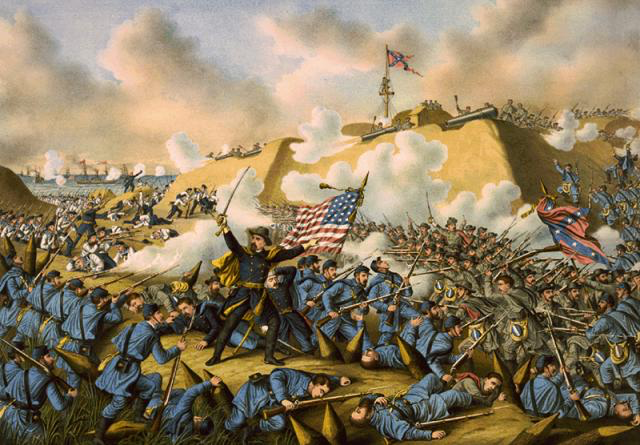
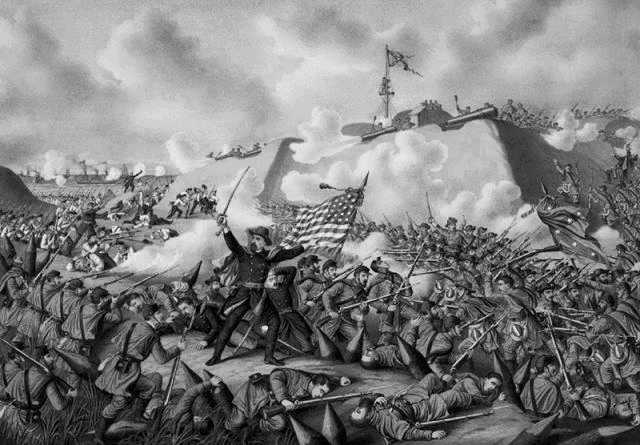
quiz-ten
Former-commit-id: 2ef84384b07a16bca82bc1794dcd85841807e04e [formerly 40565ee16052aa53a2586c54be676f3e3c36f88c]
Former-commit-id: 9e87158f8cc924dd9162e09194d3cd53d1011805

diff --git a/src/publications/quizzes/ten/index.html b/src/publications/quizzes/ten/index.html
@@ -373,7 +373,7 @@
                 },
                 {
                     "id": "place4", //figure out how to make black and white,
-                    "zoom": 3,
+                    "zoom": 2,
                     "baseLayer": {
                         "type": "tile",
                         "url": "http://{s}.tile.stamen.com/watercolor/{z}/{x}/{y}.jpg",
@@ -385,8 +385,12 @@
                         "opacity": 0.6,
                         "background": "linear-gradient(180deg, rgba(0,0,0,1.0), rgba(0,0,0,0.2))"
                     },
-
-
+                    "bounds":{
+                        "somalia": true,
+                        "afghanistan": true,
+                        "myanmar": true,
+                        "cambodia":true
+                    },
                     layers: [{
                             "id": "somalia",
                             "type": "geojson",
@@ -452,6 +456,7 @@
                             }
                         }
                     ],
+
                 },
                 {
                     "id": "place5",
@@ -540,7 +545,7 @@
                 },
                 {
                     "id": "place6",
-                    "zoom": 1.5, //3,
+                    "zoom": 1.3, //3,
                     "baseLayer": {
                         "type": "tile",
                         "url": "http://{s}.tile.stamen.com/watercolor/{z}/{x}/{y}.jpg",
@@ -640,7 +645,7 @@
                         {
                             "id": "missouri",
                             "type": "geojson",
-                            "data": L.states.MI,
+                            "data": L.states.MO,
                             "style": statePolygonStyle
                         },
                         {
@@ -734,7 +739,7 @@
                 },
                 {
                     "id": "place10", //change basemap
-                    "zoom": 3.5,
+                    "zoom": 3.0,
                     "baseLayer": {
                         "type": "tile",
                         "url": "http://{s}.tile.openstreetmap.org/{z}/{x}/{y}.png"
@@ -895,7 +900,7 @@
                     choices: [{
                         id: 'A',
                         text: 'Mali',
-                        photo: './img/Q2/Q2_A_Mali.png',
+                        photo: './img/Q2/Q2_A_Mali.jpg',
                         sceneId: 'mali'
                     }, {
                         id: 'B',
@@ -905,12 +910,12 @@
                     }, {
                         id: 'C',
                         text: 'South Sudan',
-                        photo: './img/Q2/Q2_C_South_Sudan.png',
+                        photo: './img/Q2/Q2_C_South_Sudan.jpg',
                         sceneId: 'south sudan'
                     }, {
                         id: 'D',
                         text: 'Eritrea',
-                        photo: './img/Q2/Q2_D_Eritrea.png',
+                        photo: './img/Q2/Q2_D_Eritrea.jpg',
                         sceneId: 'eritrea'
                     }, ],
                     prompt: 'Demographers do far more than just raw population counts. One important statistic among population counts is population growth rate. The numbers are quite telling: most of the fastest growing countries in the world are located in sub-Saharan Africa, including all of the top ten. With a growth rate of 3.83%, which country is number one on the list? Hint: this country also happens to be the newest UN member country.',
@@ -921,18 +926,18 @@
                 }, {
                     choices: [{
                         id: 'A',
-                        text: 'Bosnia',
-                        photo: './img/Q3/Q3_A_Bosania.png',
-                        sceneId: 'bosnia'
+                        text: 'Lithuania',
+                        photo: './img/Q3/Q3_B_Lithuania.jpg',
+                        sceneId: 'lithuania'
                     }, {
                         id: 'B',
-                        text: 'Lithuania',
-                        photo: './img/Q3/Q3_B_Lithuania.png',
-                        sceneId: 'lithuania'
+                        text: 'Bosnia',
+                        photo: './img/Q3/Q3_A_Bosania.jpg',
+                        sceneId: 'bosnia'
                     }, {
                         id: 'C',
                         text: 'Lebanon',
-                        photo: './img/Q3/Q3_C_Lebanon.png',
+                        photo: './img/Q3/Q3_C_Lebanon.jpg',
                         sceneId: 'lebanon'
                     }, {
                         id: 'D',
@@ -948,24 +953,24 @@
                 }, {
                     choices: [{
                         id: 'A',
-                        text: 'Somalia',
-                        photo: './img/Q4/Q4_A_Somalia.png',
-                        sceneId: 'somalia'
-                    }, {
-                        id: 'B',
                         text: 'Afghanistan',
                         photo: './img/Q4/Q4_B_Afghanistan.png',
                         sceneId: 'afghanistan'
                     }, {
-                        id: 'C',
-                        text: 'Myanmar',
-                        photo: './img/Q4/Q4_C_Myanmar.png',
-                        sceneId: 'myanmar'
+                        id: 'B',
+                        text: 'Somalia',
+                        photo: './img/Q4/Q4_A_Somalia.png',
+                        sceneId: 'somalia'
                     }, {
-                        id: 'D',
+                        id: 'C',
                         text: 'Cambodia',
                         photo: './img/Q4/Q4_D_Cambodia.png',
                         sceneId: 'cambodia'
+                    }, {
+                        id: 'D',
+                        text: 'Myanmar',
+                        photo: './img/Q4/Q4_C_Myanmar.jpg',
+                        sceneId: 'myanmar'
                     }],
                     prompt: 'The infant mortality rate traditionally measures how many children will die by their first birthday for every one thousand live births. This number can be staggeringly high in certain conflict-riddled places. Waterborne disease, malnutrition, and violence are just a few examples adding to the infant mortality rate. In one country in particular, the number is over 110 per 1,000 live births. This means a baby has a one in ten chance of not making it to their first birthday. Can you identify this conflict-ridden country with the highest infant mortality rate? Hint: this country recently held parliamentary elections.',
                     rightAnswer: {
@@ -986,12 +991,12 @@
                     }, {
                         id: 'C',
                         text: 'Singapore',
-                        photo: './img/Q5/Q5_C_Singapore.png',
+                        photo: './img/Q5/Q5_C_Singapore.jpg',
                         sceneId: 'singapore'
                     }, {
                         id: 'D',
                         text: 'Hong Kong',
-                        photo: './img/Q5/Q5_D_Hong_Kong.png',
+                        photo: './img/Q5/Q5_D_Hong_Kong.jpg',
                         sceneId: 'hong kong'
                     }],
                     prompt: 'Where widespread access to clean water, immunizations, and pre- and post-natal care are almost universally accessed, infant mortality rates have reached incredibly low levels in many developed countries. The U.S., however, ranks last among developed countries in this regard: with an infant mortality rate of 5.8 deaths per 1,000 live births. Now, at 1.8 deaths per 1,000 live births, which one of these city-states has the world’s lowest infant mortality rate, – not surprising since it is one of the world’s richest places?',
@@ -1008,7 +1013,7 @@
                     }, {
                         id: 'B',
                         text: 'Spain',
-                        photo: './img/Q6/Q6_B_Spain.png',
+                        photo: './img/Q6/Q6_B_Spain.jpg',
                         sceneId: 'spain'
                     }, {
                         id: 'C',
@@ -1018,7 +1023,7 @@
                     }, {
                         id: 'D',
                         text: 'South Korea',
-                        photo: './img/Q6/Q6_D_South_Korea.png',
+                        photo: './img/Q6/Q6_D_South_Korea.jpg',
                         sceneId: 'south korea'
                     }],
                     prompt: 'The Total Fertility Rate (TFR) measures the average number of children a woman is expected to give birth to in her childbearing years. Low TFRs also tell us a lot more about the status of women in a society, as lower TFRs indicate that women are completing secondary education and entering the formal workforce. This often leads to the decision to have smaller families. So while Singapore has the lowest TFR at 0.83, Niger has the world’s highest, at 6.49. Among highly developed countries (as determined by membership in the OECD), only one has a TFR above 2.5, while most are below 2.0. With a large number of very religious residents, those of whom drive up the TFR relative to other developed countries, can you identify which country this is?',
@@ -1040,23 +1045,23 @@
                     choices: [{
                         id: 'A',
                         text: 'Utah',
-                        photo: './img/Q7/Q7_A_Utah.png',
+                        photo: './img/Q7/Q7_A_Utah.jpg',
                         sceneId: 'utah'
                     }, {
                         id: 'B',
                         text: 'Kansas',
-                        photo: './img/Q7/Q7_B_Kansas.png',
+                        photo: './img/Q7/Q7_B_Kansas.jpg',
                         sceneId: 'kansas'
                     }, {
                         id: 'C',
-                        text: 'Missouri',
-                        photo: './img/Q7/Q7_C_Missouri.png',
-                        sceneId: 'missouri'
+                        text: 'Alabama',
+                        photo: './img/Q7/Q7_D_Alabama.jpg',
+                        sceneId: 'alabama'
                     }, {
                         id: 'D',
-                        text: 'Alabama',
-                        photo: './img/Q7/Q7_D_Alabama.png',
-                        sceneId: 'alabama'
+                        text: 'Missouri',
+                        photo: './img/Q7/Q7_C_Missouri.jpg',
+                        sceneId: 'missouri'
                     }],
                     prompt: 'Demographers not only collect demographic data at the global, but also at lesser scales. Sticking to the United States for the remained of the quiz, as well as sticking with Total Fertility Rate, which U.S. state boasts the highest TFR, 2.62, well above the national TFR of 1.8? ',
                     rightAnswer: {
@@ -1067,22 +1072,22 @@
                     choices: [{
                         id: 'A',
                         text: 'Oregon',
-                        photo: './img/Q8/Q8_A_Oregon.png',
+                        photo: './img/Q8/Q8_A_Oregon.jpg',
                         sceneId: 'oregon'
                     }, {
                         id: 'B',
                         text: 'Colorado',
-                        photo: './img/Q8/Q8_B_Colorado.png',
+                        photo: './img/Q8/Q8_B_Colorado.jpg',
                         sceneId: 'colorado'
                     }, {
                         id: 'C',
                         text: 'Illinois',
-                        photo: './img/Q8/Q8_C_Illinois.png',
+                        photo: './img/Q8/Q8_C_Illinois.jpg',
                         sceneId: 'illinois'
                     }, {
                         id: 'D',
                         text: 'Vermont',
-                        photo: './img/Q8/Q8_D_Vermont.png',
+                        photo: './img/Q8/Q8_D_Vermont.jpg',
                         sceneId: 'vermont'
                     }],
                     prompt: 'In our field, we are able to track important trends in health, such as the current obesity crisis. Seven U.S. states have obesity rates well over 35%, while only two states and the District of Columbia have a rate below 25%. Which one of these states boasts the lowest obesity rate, likely attributable in part to the active lifestyle of its residents?',
@@ -1094,12 +1099,12 @@
                     choices: [{
                         id: 'A',
                         text: 'Arkansas',
-                        photo: './img/Q9/Q9_A_Arkansas.png',
+                        photo: './img/Q9/Q9_A_Arkansas.jpg',
                         sceneId: 'arkansas'
                     }, {
                         id: 'B',
                         text: 'Louisiana',
-                        photo: './img/Q9/Q9_B_Louisiana.png',
+                        photo: './img/Q9/Q9_B_Louisiana.jpg',
                         sceneId: 'louisiana'
                     }, {
                         id: 'C',
@@ -1126,7 +1131,7 @@
                     }, {
                         id: 'B',
                         text: 'Ireland',
-                        photo: './img/Q10/Q10_B_Ireland.png',
+                        photo: './img/Q10/Q10_B_Ireland.jpg',
                         sceneId: 'ireland'
                     }, {
                         id: 'C',

diff --git a/src/js/twentytwenty/css/twentytwenty.css b/src/js/twentytwenty/css/twentytwenty.css
@@ -82,7 +82,8 @@
   overflow: hidden;
   position: relative;
   -webkit-user-select: none;
-  -moz-user-select: none; }
+  -moz-user-select: none;
+  -ms-user-select: none; }
   .twentytwenty-container img {
     max-width: 100%;
     position: absolute;
